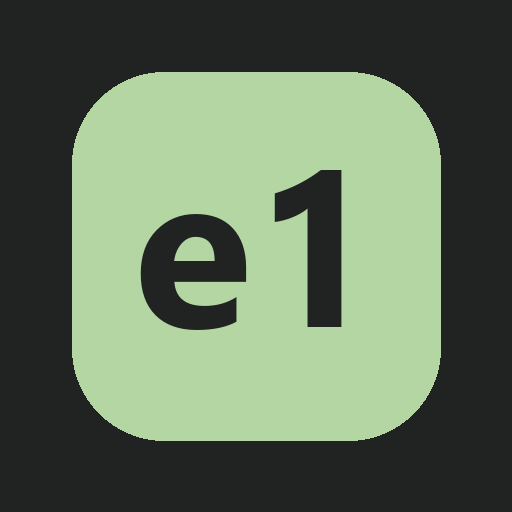
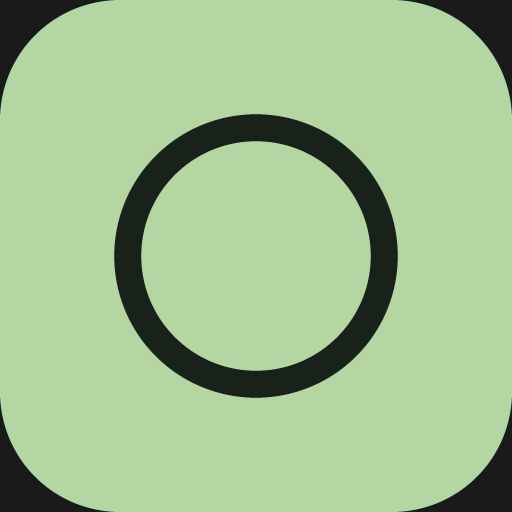
[verified] feat: use Classic ring branding across Agent clients

diff --git a/apps/android/app/src/main/java/com/everyonesoftware/agent/MainActivity.kt b/apps/android/app/src/main/java/com/everyonesoftware/agent/MainActivity.kt
@@ -7,6 +7,7 @@ import androidx.activity.ComponentActivity
 import androidx.activity.compose.setContent
 import androidx.activity.compose.BackHandler
 import androidx.compose.foundation.background
+import androidx.compose.foundation.Image
 import androidx.compose.foundation.layout.*
 import androidx.compose.foundation.lazy.LazyColumn
 import androidx.compose.foundation.lazy.items
@@ -23,6 +24,8 @@ import androidx.compose.ui.Alignment
 import androidx.compose.ui.graphics.Color
 import androidx.compose.ui.platform.LocalContext
 import androidx.compose.ui.platform.testTag
+import androidx.compose.ui.res.painterResource
+import androidx.compose.ui.text.TextStyle
 import androidx.compose.ui.text.input.PasswordVisualTransformation
 import androidx.compose.ui.text.input.VisualTransformation
 import androidx.compose.ui.unit.dp
@@ -50,6 +53,12 @@ class MainActivity: ComponentActivity() {
 @Composable fun AgentTheme(content: @Composable ()->Unit) {
  MaterialTheme(colorScheme=darkColorScheme(primary=Color(0xffb4d6a3),onPrimary=Color(0xff1c281a),background=Color(0xff202322),surface=Color(0xff202322),surfaceContainer=Color(0xff252a27),onSurface=Color(0xffe1e6e2),outline=Color(0xff333936)),content=content)
 }
+@Composable private fun AgentBrand(style: TextStyle) {
+ Row(verticalAlignment=Alignment.CenterVertically,horizontalArrangement=Arrangement.spacedBy(10.dp)) {
+  Image(painterResource(R.drawable.agent_icon),contentDescription=null,modifier=Modifier.size(26.dp))
+  Text("Agent",style=style)
+ }
+}
 @Composable private fun Field(label: String,value: String,change: (String)->Unit,secret: Boolean=false,tag: String="",enabled: Boolean=true) {
  OutlinedTextField(value,change,label={ Text(label) },modifier=Modifier.fillMaxWidth().testTag(tag),enabled=enabled,visualTransformation=if(secret) PasswordVisualTransformation() else VisualTransformation.None,singleLine=true)
 }
@@ -67,10 +76,10 @@ class MainActivity: ComponentActivity() {
  val drawer=rememberDrawerState(DrawerValue.Closed); val scope=rememberCoroutineScope()
  BackHandler(state.screen!="chat" && state.user!=null) { controller.navigate("chat") }
  MaterialTheme { Surface(Modifier.fillMaxSize()) {
- if(state.restoring) Box(Modifier.fillMaxSize(),contentAlignment=Alignment.Center) { Column(horizontalAlignment=Alignment.CenterHorizontally) { Text("Agent",style=MaterialTheme.typography.headlineMedium); CircularProgressIndicator(); Text("Loading Agent…") } }
+ if(state.restoring) Box(Modifier.fillMaxSize(),contentAlignment=Alignment.Center) { Column(horizontalAlignment=Alignment.CenterHorizontally) { AgentBrand(style=MaterialTheme.typography.headlineMedium); CircularProgressIndicator(); Text("Loading Agent…") } }
  else if(state.user==null) Login(controller,state)
  else ModalNavigationDrawer(drawerState=drawer,drawerContent={ ModalDrawerSheet(drawerContainerColor=Color(0xff181b1a)) {
-  Text("Agent",Modifier.padding(24.dp),style=MaterialTheme.typography.headlineMedium)
+  Box(Modifier.padding(24.dp)) { AgentBrand(style=MaterialTheme.typography.headlineMedium) }
   NavigationDrawerItem(label={ Text("New conversation") },selected=false,onClick={ controller.newChat(); scope.launch { drawer.close() } })
   LazyColumn(Modifier.weight(1f)) { items(state.conversations,key={ it.text("id") }) { item -> NavigationDrawerItem(label={ Text(item.text("title").ifBlank { "Untitled conversation" }) },selected=state.conversation==item.text("id"),onClick={ controller.openConversation(item); scope.launch { drawer.close() } }) } }
   NavigationDrawerItem(label={ Text("Settings") },selected=state.screen=="settings",onClick={ controller.navigate("settings"); scope.launch { drawer.close() } })
@@ -97,7 +106,7 @@ class MainActivity: ComponentActivity() {
 @Composable private fun Login(controller: AgentController,state: AgentState) {
  var endpoint by remember { mutableStateOf(state.endpoint) }; var username by remember { mutableStateOf("") }; var password by remember { mutableStateOf("") }; var register by remember { mutableStateOf(false) }
  Column(Modifier.fillMaxSize().imePadding().verticalScroll(rememberScrollState()).padding(24.dp),verticalArrangement=Arrangement.spacedBy(16.dp)) {
-  Spacer(Modifier.height(40.dp)); Text("Agent",style=MaterialTheme.typography.headlineLarge); Text("Your private conversation workspace")
+  Spacer(Modifier.height(40.dp)); AgentBrand(style=MaterialTheme.typography.headlineLarge); Text("Your private conversation workspace")
   Field("Server address",endpoint,{ endpoint=it },tag="server"); Field("Username",username,{ username=it },tag="username"); Field("Password",password,{ password=it },true,"password")
   if(state.error.isNotEmpty()) Text(state.error,color=MaterialTheme.colorScheme.error)
   Button(onClick={ controller.login(endpoint,username,password,register); password="" },enabled=!state.busy && endpoint.isNotBlank() && username.isNotBlank() && password.isNotEmpty(),modifier=Modifier.testTag("login")) { Text(if(register) "Create account" else "Sign in") }

diff --git a/apps/windows/Agent.App/Shell.xaml b/apps/windows/Agent.App/Shell.xaml
@@ -8,9 +8,9 @@
   <Style TargetType="Expander"><Setter Property="HorizontalAlignment" Value="Stretch"/><Setter Property="HorizontalContentAlignment" Value="Stretch"/></Style>
  </Grid.Resources>
  <Grid.RowDefinitions><RowDefinition Height="36"/><RowDefinition Height="*"/><RowDefinition Height="Auto"/></Grid.RowDefinitions>
- <Border x:Name="TitleBar" Background="#181b1a" Padding="16,0,150,0"><StackPanel Orientation="Horizontal" Spacing="10" VerticalAlignment="Center"><Image x:Name="AppIcon" Width="20" Height="20"/><TextBlock Text="Agent" FontSize="13"/></StackPanel></Border>
+ <Border x:Name="TitleBar" Background="#181b1a" Padding="16,0,150,0"><StackPanel Orientation="Horizontal" Spacing="10" VerticalAlignment="Center"><Image x:Name="AppIcon" Width="20" Height="20" AutomationProperties.AccessibilityView="Raw"/><TextBlock Text="Agent" FontSize="13"/></StackPanel></Border>
  <StackPanel x:Name="Loading" Grid.Row="1" HorizontalAlignment="Center" VerticalAlignment="Center" Spacing="16"><ProgressRing IsActive="True"/><TextBlock Text="Checking your session…"/></StackPanel>
- <ScrollViewer x:Name="SignIn" Grid.Row="1" Visibility="Collapsed"><StackPanel Width="390" Spacing="14" VerticalAlignment="Center" Margin="28,70"><TextBlock Text="Agent" FontSize="32"/><TextBlock Text="Connect to your Agent server" FontSize="20"/><TextBox x:Name="Endpoint" Header="Server address" PlaceholderText="HTTPS server address" InputScope="Url"/><TextBox x:Name="Username" Header="Username"/><PasswordBox x:Name="Password" Header="Password"/><Button x:Name="Login" Content="Sign in" HorizontalAlignment="Stretch"/><Button x:Name="Register" Content="Create account" HorizontalAlignment="Stretch"/><TextBlock x:Name="LoginFeedback"/></StackPanel></ScrollViewer>
+ <ScrollViewer x:Name="SignIn" Grid.Row="1" Visibility="Collapsed"><StackPanel Width="390" Spacing="14" VerticalAlignment="Center" Margin="28,70"><StackPanel Orientation="Horizontal" Spacing="12"><Image x:Name="SignInIcon" Width="40" Height="40" AutomationProperties.AccessibilityView="Raw"/><TextBlock Text="Agent" FontSize="32" VerticalAlignment="Center"/></StackPanel><TextBlock Text="Connect to your Agent server" FontSize="20"/><TextBox x:Name="Endpoint" Header="Server address" PlaceholderText="HTTPS server address" InputScope="Url"/><TextBox x:Name="Username" Header="Username"/><PasswordBox x:Name="Password" Header="Password"/><Button x:Name="Login" Content="Sign in" HorizontalAlignment="Stretch"/><Button x:Name="Register" Content="Create account" HorizontalAlignment="Stretch"/><TextBlock x:Name="LoginFeedback"/></StackPanel></ScrollViewer>
  <Grid x:Name="Workspace" Grid.Row="1" Visibility="Collapsed"><Grid.ColumnDefinitions><ColumnDefinition Width="260"/><ColumnDefinition Width="*"/></Grid.ColumnDefinitions>
   <Grid Background="#181b1a" Padding="16"><Grid.RowDefinitions><RowDefinition Height="Auto"/><RowDefinition Height="Auto"/><RowDefinition Height="*"/><RowDefinition Height="Auto"/></Grid.RowDefinitions>
    <Button x:Name="NewChat" Content="＋  New conversation" HorizontalAlignment="Stretch"/><TextBlock Grid.Row="1" Text="Conversations" Margin="4,24,0,12" Foreground="#a3aea6"/>

diff --git a/pwa/offline.html b/pwa/offline.html
@@ -1,2 +1,2 @@
 <!doctype html>
-<html lang="en"><head><meta charset="utf-8"><meta name="viewport" content="width=device-width,initial-scale=1"><meta name="theme-color" content="#202322"><title>Agent · offline</title><style>:root{color-scheme:dark;font:16px/1.6 'Segoe UI',Arial,sans-serif;color:#e1e6e2;background:#202322}body{min-height:100dvh;margin:0;display:grid;place-items:center}main{max-width:28rem;padding:2rem}.mark{display:inline-grid;place-items:center;width:44px;height:44px;background:#b4d6a3;color:#202322;border-radius:12px;font-size:24px;font-weight:700}h1{font-size:24px}p{color:#a0aaa3}a{display:inline-block;padding:10px 18px;border:1px solid #a0aaa3;border-radius:7px;color:#e1e6e2;text-decoration:none}a:focus-visible{outline:3px solid #b4d6a3;outline-offset:4px}</style></head><body><main><span class="mark" aria-hidden="true">e1</span><h1>Agent is offline</h1><p>Reconnect to open Agent. Your conversations and account data are never saved in the offline cache.</p><a href="/">Try again</a></main></body></html>
+<html lang="en"><head><meta charset="utf-8"><meta name="viewport" content="width=device-width,initial-scale=1"><meta name="theme-color" content="#202322"><title>Agent · offline</title><style>:root{color-scheme:dark;font:16px/1.6 'Segoe UI',Arial,sans-serif;color:#e1e6e2;background:#202322}body{min-height:100dvh;margin:0;display:grid;place-items:center}main{max-width:28rem;padding:2rem}.mark{display:inline-block;width:44px;height:44px}.mark svg{display:block;width:100%;height:100%}h1{font-size:24px}p{color:#a0aaa3}a{display:inline-block;padding:10px 18px;border:1px solid #a0aaa3;border-radius:7px;color:#e1e6e2;text-decoration:none}a:focus-visible{outline:3px solid #b4d6a3;outline-offset:4px}</style></head><body><main><span class="mark" aria-hidden="true"><svg xmlns="http://www.w3.org/2000/svg" viewBox="0 0 64 64" fill="none"><rect width="64" height="64" rx="15" fill="#b4d6a3"/><g transform="translate(5 5) scale(.84375)"><circle cx="32" cy="32" r="19" stroke="#18211a" stroke-width="4"/></g></svg></span><h1>Agent is offline</h1><p>Reconnect to open Agent. Your conversations and account data are never saved in the offline cache.</p><a href="/">Try again</a></main></body></html>

diff --git a/page.go b/page.go
@@ -13,6 +13,7 @@ const homePage = `<!doctype html>
   <meta name="apple-mobile-web-app-title" content="Agent">
   <link rel="manifest" href="/manifest.webmanifest">
   <link rel="apple-touch-icon" href="/icons/apple-touch-icon.png">
+  <link rel="icon" type="image/svg+xml" href="/icons/agent.svg">
   <script src="/pwa-updates.js" defer></script>
   <title>Agent</title>
   <style>
@@ -29,7 +30,7 @@ const homePage = `<!doctype html>
     button:disabled { opacity: .5; cursor: wait; }
     a { color: var(--accent); }
     .brand { display: flex; align-items: center; gap: 9px; color: #e1e6e2; font-size: 15px; font-weight: 600; letter-spacing: -.4px; }
-    .mark { display: grid; place-items: center; width: 26px; height: 26px; flex-shrink: 0; border-radius: 6px; color: #1c281a; background: var(--accent); font: 17px Georgia, serif; letter-spacing: -1.2px; padding-right: 1px; }
+    .mark { display: block; width: 26px; height: 26px; flex-shrink: 0; background: url('/icons/agent.svg') center / contain no-repeat; }
     .app { position: relative; display: grid; grid-template-columns: clamp(180px, var(--sidebar-width, 232px), min(480px, 45vw)) minmax(0, 1fr); width: 100%; height: 100vh; height: 100dvh; margin: 0; border: 0; background: #202322; }
     .sidebar { position: relative; min-width: 0; display: flex; flex-direction: column; gap: 18px; min-height: 0; padding: 25px 14px 12px; border-right: 1px solid var(--line); background: #181b1a; }
     .sidebar-resize { position: absolute; top: 0; right: -4px; bottom: 0; width: 8px; z-index: 5; cursor: col-resize; touch-action: none; }
@@ -237,7 +238,7 @@ const homePage = `<!doctype html>
     .message.user .sender { justify-content: flex-end; margin-bottom: 7px; }
     .message.user .message-text { padding: 12px 17px; color: #e1e8df; background: #2c3930; border: 1px solid #394b3d; border-radius: 12px 12px 3px 12px; }
     .message.assistant .sender { color: #e1e6e2; font-weight: 600; }
-    .message.assistant .sender::before { content: 'e1'; display: grid; place-items: center; width: 21px; height: 21px; flex: none; border-radius: 5px; background: #2e3a30; color: var(--accent); font: 13px Georgia, serif; letter-spacing: -1px; }
+    .message.assistant .sender::before { content: ''; display: block; width: 21px; height: 21px; flex: none; background: url('/icons/agent.svg') center / contain no-repeat; }
     .message-text { font-size: 14px; line-height: 1.75; white-space: pre-wrap; overflow-wrap: anywhere; }
     .message.assistant .message-text { white-space: normal; }
     .message-text p { margin: 0 0 15px; white-space: pre-wrap; }
@@ -484,11 +485,11 @@ const homePage = `<!doctype html>
 </head>
 <body>
   <main class="auth-gate" id="auth-loading" aria-label="Loading Agent" aria-busy="true">
-    <header class="auth-header"><div class="brand"><span class="mark" aria-hidden="true">e1</span>Agent</div></header>
+    <header class="auth-header"><div class="brand"><span class="mark" aria-hidden="true"></span>Agent</div></header>
     <div class="auth-loading-center"><div class="auth-loading-status" role="status"><span class="auth-loading-spinner" aria-hidden="true"></span><p>Loading Agent…</p></div></div>
   </main>
   <main class="auth-gate" id="auth-gate" hidden>
-    <header class="auth-header"><div class="brand"><span class="mark" aria-hidden="true">e1</span>Agent</div></header>
+    <header class="auth-header"><div class="brand"><span class="mark" aria-hidden="true"></span>Agent</div></header>
     <div class="auth-center"><div class="auth-content">
     <h1 id="auth-title">Welcome back.</h1>
     <p id="auth-intro">Sign in to pick up the conversation.</p>
@@ -509,7 +510,7 @@ const homePage = `<!doctype html>
     <button id="sidebar-backdrop" class="sidebar-backdrop" type="button" aria-label="Close session navigation" tabindex="-1" hidden></button>
     <aside class="sidebar" id="session-sidebar" aria-label="Session navigation">
       <div class="sidebar-resize" id="sidebar-resize" role="separator" tabindex="0" aria-label="Resize sidebar" aria-orientation="vertical" aria-controls="session-sidebar" aria-valuemin="180" aria-valuemax="480" aria-valuenow="232"></div>
-      <div class="brand"><span class="mark" aria-hidden="true">e1</span>Agent</div>
+      <div class="brand"><span class="mark" aria-hidden="true"></span>Agent</div>
       <button class="reset new-chat" id="new-chat" type="button">＋ New conversation</button>
       <label class="search-label"><span class="visually-hidden">Search conversations</span><input type="search" id="conversation-search" placeholder="Search conversations" autocomplete="off"></label>
       <nav class="history" id="conversation-list" aria-label="Previous sessions"><p class="history-state">Loading conversations…</p></nav>

diff --git a/branding_test.go b/branding_test.go
@@ -1,0 +1,53 @@
+package main
+
+import (
+	"bytes"
+	"image/png"
+	"strings"
+	"testing"
+)
+
+func TestClassicRingArtwork(t *testing.T) {
+	svg, err := pwaAssets.ReadFile("pwa/icons/agent.svg")
+	if err != nil {
+		t.Fatal(err)
+	}
+	for _, geometry := range []string{`viewBox="0 0 64 64"`, `rx="15"`, `fill="#b4d6a3"`, `translate(5 5) scale(.84375)`, `cx="32" cy="32" r="19"`, `stroke="#18211a" stroke-width="4"`, `fill="none"`} {
+		if !strings.Contains(string(svg), geometry) {
+			t.Errorf("approved Classic ring geometry missing %s", geometry)
+		}
+	}
+	offline, err := pwaAssets.ReadFile("pwa/offline.html")
+	if err != nil {
+		t.Fatal(err)
+	}
+	if !strings.Contains(string(offline), strings.TrimSpace(string(svg))) || strings.Contains(string(offline), ">e1<") {
+		t.Error("offline page must embed the shared Classic ring without a network dependency")
+	}
+	for _, path := range []string{"pwa/icons/icon-192.png", "pwa/icons/icon-512.png", "pwa/icons/apple-touch-icon.png"} {
+		data, err := pwaAssets.ReadFile(path)
+		if err != nil {
+			t.Fatal(err)
+		}
+		img, err := png.Decode(bytes.NewReader(data))
+		if err != nil {
+			t.Fatal(err)
+		}
+		size := img.Bounds().Dx()
+		// Center is empty sage; the ring crosses 25% of the width, not the center.
+		for _, pixel := range []struct {
+			x, y int
+			rgb  [3]uint32
+		}{
+			{size / 2, size / 2, [3]uint32{0xb4, 0xd6, 0xa3}},
+			{size / 4, size / 2, [3]uint32{0x18, 0x21, 0x1a}},
+			{size / 2, size / 10, [3]uint32{0xb4, 0xd6, 0xa3}},
+			{0, 0, [3]uint32{0x18, 0x1b, 0x1a}},
+		} {
+			r, g, b, _ := img.At(pixel.x, pixel.y).RGBA()
+			if got := [3]uint32{r >> 8, g >> 8, b >> 8}; got != pixel.rgb {
+				t.Errorf("%s pixel (%d,%d) = %v, want %v", path, pixel.x, pixel.y, got, pixel.rgb)
+			}
+		}
+	}
+}

diff --git a/apps/windows/Agent.App/MainWindow.cs b/apps/windows/Agent.App/MainWindow.cs
@@ -37,7 +37,8 @@ public sealed partial class MainWindow:Window
         using var stream=Assembly.GetExecutingAssembly().GetManifestResourceStream("Agent.App.Shell.xaml")!;using var reader=new StreamReader(stream);
         root=(Grid)XamlReader.Load(reader.ReadToEnd());Content=root;Title="Agent";
         AppWindow.SetIcon(Path.Combine(AppContext.BaseDirectory,"Assets","Agent.ico"));
-        C<Image>("AppIcon").Source=new BitmapImage(new Uri(Path.Combine(AppContext.BaseDirectory,"Assets","Agent.png")));
+        var brandImage=new BitmapImage(new Uri(Path.Combine(AppContext.BaseDirectory,"Assets","Agent.png")));
+        foreach(string name in new[]{"AppIcon","SignInIcon"})C<Image>(name).Source=brandImage;
         ExtendsContentIntoTitleBar=true;SetTitleBar(C<Border>("TitleBar"));AppWindow.Resize(new Windows.Graphics.SizeInt32(1240,850));
         AppWindow.TitleBar.ButtonBackgroundColor=Color.FromArgb(255,24,27,26);AppWindow.TitleBar.ButtonForegroundColor=Color.FromArgb(255,225,230,226);
         AppWindow.TitleBar.ButtonInactiveBackgroundColor=Color.FromArgb(255,24,27,26);AppWindow.TitleBar.ButtonInactiveForegroundColor=Color.FromArgb(255,163,174,166);

diff --git a/page_test.go b/page_test.go
@@ -18,8 +18,18 @@ func TestAgentBranding(t *testing.T) {
 	if strings.Contains(homePage, "EveryoneAgent") {
 		t.Error("page still contains the old display name")
 	}
-	if count := strings.Count(homePage, `<span class="mark" aria-hidden="true">e1</span>Agent`); count != 3 {
-		t.Errorf("loading, login and sidebar must all use the e1 Agent lockup; got %d", count)
+	if count := strings.Count(homePage, `<span class="mark" aria-hidden="true"></span>Agent`); count != 3 {
+		t.Errorf("loading, login and sidebar must all use the Classic ring Agent lockup; got %d", count)
+	}
+	for _, required := range []string{`url('/icons/agent.svg')`, `<link rel="icon" type="image/svg+xml" href="/icons/agent.svg">`} {
+		if !strings.Contains(homePage, required) {
+			t.Errorf("Classic ring artwork is missing %s", required)
+		}
+	}
+	for _, removed := range []string{`>e1</span>`, `content: 'e1'`} {
+		if strings.Contains(homePage, removed) {
+			t.Errorf("page still contains retired e1 artwork: %s", removed)
+		}
 	}
 	if siwcAgentName != "Agent" {
 		t.Errorf("new ChatGPT registrations should display Agent, got %q", siwcAgentName)

diff --git a/pwa.go b/pwa.go
@@ -72,6 +72,7 @@ func registerPWARoutes(mux *http.ServeMux) {
 		"/sw.js":                      "text/javascript; charset=utf-8",
 		"/icons/icon-192.png":         "image/png",
 		"/icons/icon-512.png":         "image/png",
+		"/icons/agent.svg":            "image/svg+xml",
 		"/icons/apple-touch-icon.png": "image/png",
 	} {
 		body, err := pwaAssets.ReadFile("pwa" + path)

diff --git a/pwa_test.go b/pwa_test.go
@@ -165,6 +165,7 @@ func TestPWAPublicAssets(t *testing.T) {
 	}{
 		{"/offline.html", "text/html; charset=utf-8", 0},
 		{"/sw.js", "text/javascript; charset=utf-8", 0},
+		{"/icons/agent.svg", "image/svg+xml", 0},
 		{"/icons/icon-192.png", "image/png", 192},
 		{"/icons/icon-512.png", "image/png", 512},
 		{"/icons/apple-touch-icon.png", "image/png", 180},

diff --git a/docs/NATIVE-CLIENT-CONTRACT.md b/docs/NATIVE-CLIENT-CONTRACT.md
@@ -6,6 +6,8 @@ Native Android (Kotlin/Compose) and native Windows (WinUI 3/C#) clients connect 
 
 Approved visual reference: [`design/agent-native-approved.html`](design/agent-native-approved.html), preserved from `/opt/data/cache/scratch/agent-native-study/index.html`. It is a self-contained design study, not shipped client code. Charcoal `#202322`, sidebar `#181b1a`, field `#252a27`, borders `#333936`, text `#e1e6e2`, sage `#b4d6a3`. Native title bar follows Music. Android uses a conversation drawer and reachable composer, not desktop navigation squeezed onto a phone.
 
+The approved production icon supersedes the study's original mark: **Classic ring**, a charcoal circle inside a sage rounded square. `scripts/generate-branding.mjs` owns the exact SVG/raster geometry and regenerates web/PWA, Android launcher/in-app, and Windows PNG/ICO artwork together. Run it with `--check` to verify all generated outputs; do not introduce per-platform text marks or alternate logo proportions.
+
 Settings order: Updates, Connection, ChatGPT Connection, Web Research, Memory, Reset Password, Sign Out. ChatGPT Connection follows CURRENT `page.go` markup and `refreshConnectionData`/`renderUsage`: status-refresh pill, accessible active-account selector, Add account / Disconnect, Allowance freshness and refresh, compact remaining/window/reset rows, View usage history, collapsed About allowance. Omit the mockup's original avatar and Default model control. Native accessibility/font scaling must retain readable text and touch targets.
 
 ## Server protocol — authoritative existing Go implementation

diff --git a/README.md b/README.md
@@ -561,8 +561,11 @@ data deletion is required to use a bind mount with the same existing data.
 
 ## Interface and development checks
 
-The interface is branded **Agent**, with a compact **e1** mark on login and in the
-sidebar. Existing database, session cookie, model preference, and Compose
+The interface is branded **Agent**, with the **Classic ring** icon: a charcoal
+circle inside a sage rounded square. Web, PWA, Android, and Windows share this
+artwork. Run `node scripts/generate-branding.mjs` to regenerate the SVG, PNGs,
+and Windows ICO, or add `--check` to verify the generated artwork is current.
+Existing database, session cookie, model preference, and Compose
 identifiers retain their original `everyoneagent` names for compatibility; no data
 migration is needed for those identifiers. ChatGPT sign-in is managed by Codex;
 saved profiles from the removed Responses integration can be reconnected without
